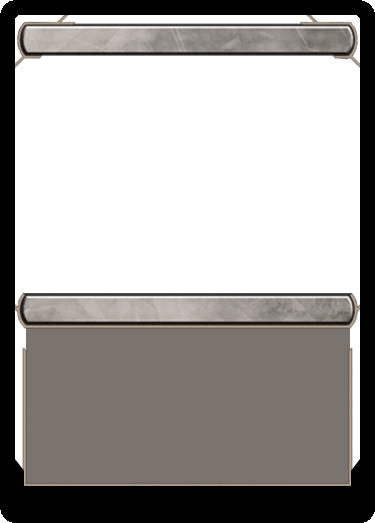
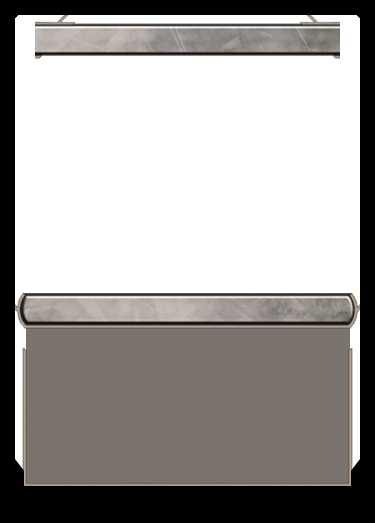
zendikar rising

diff --git a/data/magic-modules.mse-include/symbols/mse-transformation-symbols/mse-transformation-symbols.py b/data/magic-modules.mse-include/symbols/mse-transformation-symbols/mse-transformation-symbols.py
@@ -29,6 +29,10 @@ directoryArg = File('directory',
 					_('Directory where files are loaded'),
 					action = Gimp.FileChooserAction.CREATE_FOLDER,
 					noneOK = False)
+eraseArg = Boolean('erase_rim',
+					_('Erase Rim'),
+					_('Enable if making a symbol, disable if making a rim.'),
+					True)
 
 runMode = Gimp.RunMode.INTERACTIVE
 
@@ -52,6 +56,7 @@ def run(procedure: Gimp.ImageProcedure,
 	directory = directoryArg.getArgValue(config)
 	directory_path = directory.get_path()
 	directory_name = os.path.basename(directory_path)
+	erase_rim = eraseArg.getArgValue(config)
 
 	#### Create save directory
 	save_directory: Gio.File = fileFromPathComponents([directory_path]+['shape'])
@@ -100,15 +105,16 @@ def run(procedure: Gimp.ImageProcedure,
 	layers = load_layer_group.get_children()
 
 	#### Erase the rim
-	image.select_ellipse(Gimp.ChannelOps.REPLACE, 137, 137, 432, 432)
-	Gimp.Selection.invert(image)
-	Gimp.context_set_foreground(black)
-	for layer in layers:
-		layer.set_visible(True)
-		Gimp.displays_flush()
-		layer.edit_fill(Gimp.FillType.FOREGROUND)
-		Gimp.displays_flush()
-		layer.set_visible(False)
+	if erase_rim:
+		image.select_ellipse(Gimp.ChannelOps.REPLACE, 137, 137, 432, 432)
+		Gimp.Selection.invert(image)
+		Gimp.context_set_foreground(black)
+		for layer in layers:
+			layer.set_visible(True)
+			Gimp.displays_flush()
+			layer.edit_fill(Gimp.FillType.FOREGROUND)
+			Gimp.displays_flush()
+			layer.set_visible(False)
 
 	Gimp.context_set_foreground(grey)
 	for layer in layers:
@@ -192,6 +198,7 @@ class DescriptionClass(HelpedPlugin):
 			run,
 			args = [
 				directoryArg,
+				eraseArg,
 			],
 			menuLabel = _('Transformation Symbols...'),
 			menuPath = ['<Image>/Tools/[MSE]'],
